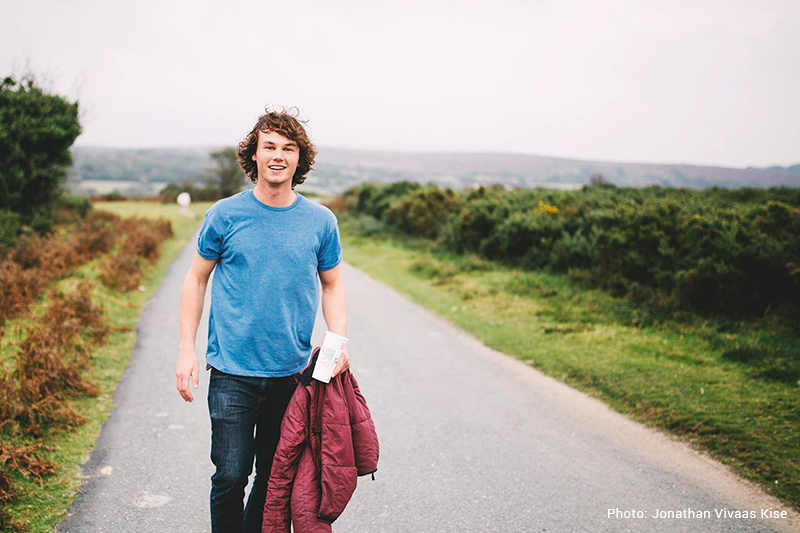
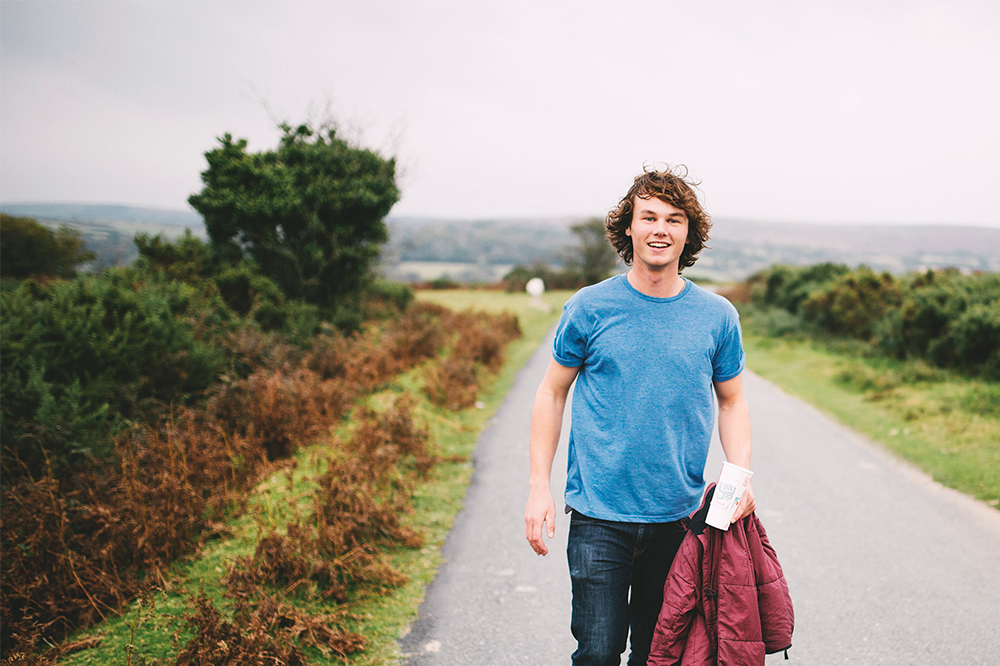
about update and photo credit

diff --git a/_site/styles.css b/_site/styles.css
@@ -1,1 +1,1 @@
-.left{float:left}.right{float:right}.smallCaps{font-size:0.8rem;letter-spacing:.06rem}*{-webkit-box-sizing:border-box;-moz-box-sizing:border-box;box-sizing:border-box}html,body{margin:0;padding:0}html{font-family:-apple-system,BlinkMacSystemFont,"Segoe UI","Roboto","Oxygen","Ubuntu","Cantarell","Fira Sans","Droid Sans","Helvetica Neue",sans-serif;font-size:17px;line-height:1.5;height:100%}@media (min-width: 38em){html{font-size:18px}}body{color:#222;background-color:#fff;-webkit-text-size-adjust:100%;-ms-text-size-adjust:100%}iframe{display:block}a{color:#778282;text-decoration:none}a:hover,a:focus{color:black}a strong{color:inherit}.active a:hover,.active:hover{text-decoration:none;cursor:default}img{display:block;max-width:100%;margin:1rem auto}img.heroImg{margin:0}iframe{margin:1.8rem auto}table{margin-bottom:1rem;width:100%;font-size:85%;border:1px solid #e5e5e5;border-collapse:collapse}td,th{padding:.25rem .5rem;border:1px solid #e5e5e5}th{text-align:left}tbody tr:nth-child(odd) td,tbody tr:nth-child(odd) th{background-color:#f9f9f9}h1,h2,h3,h4,h5,h6{font-family:0.8rem;margin-bottom:1.8rem;font-weight:700;line-height:1.25;color:#222;text-rendering:optimizeLegibility}h1{font-size:2rem;text-align:center;margin:4rem auto;color:black}.homepage h1{text-align:left;margin:0 0 1.8rem}h2{margin-top:4.8rem;font-size:1.5rem}h3{margin-top:3.6rem;font-size:1.2rem;font-weight:600;margin-bottom:0.9rem}h4,h5,h6{margin-top:1rem;font-size:1rem}p{margin-top:0;margin-bottom:1.8rem;font-family:"freight-text-pro"}@media (min-width: 30em){p{font-size:1.2rem}}strong{color:#303030}h5{font-family:"freight-text-pro";font-style:italic;font-weight:400;max-width:28rem;text-align:center;margin:0 auto 1.8rem}ul,ol,dl{margin-top:0;margin-bottom:1.8rem;font-family:"freight-text-pro"}ul li,ol li,dl li{margin-bottom:0.9rem}@media (min-width: 30em){ul,ol,dl{font-size:1.2rem}}dt{font-weight:bold}dd{margin-bottom:.5rem}hr{position:relative;margin:1.5rem 0;border:0;border-top:1px solid #eee;border-bottom:1px solid #fff}abbr{font-size:85%;font-weight:bold;color:#555;text-transform:uppercase}abbr[title]{cursor:help;border-bottom:1px dotted #e5e5e5}blockquote{padding:.5rem 1rem;margin:.8rem 0;color:#7a7a7a;border-left:.25rem solid #e5e5e5}blockquote p:last-child{margin-bottom:0}@media (min-width: 30em){blockquote{padding-right:5rem;padding-left:1.25rem}}sup{font-size:0.5rem}a[href^="#fn:"],a[href^="#fnref:"]{display:inline-block;margin-left:.1rem;font-weight:bold}.footnotes{margin-top:2rem;font-size:85%}.lead{font-size:1.25rem;font-weight:300}.highlight .hll{background-color:#ffc}.highlight .c{color:#999}.highlight .err{color:#a00;background-color:#faa}.highlight .k{color:#069}.highlight .o{color:#555}.highlight .cm{color:#09f;font-style:italic}.highlight .cp{color:#099}.highlight .c1{color:#999}.highlight .cs{color:#999}.highlight .gd{background-color:#fcc;border:1px solid #c00}.highlight .ge{font-style:italic}.highlight .gr{color:red}.highlight .gh{color:#030}.highlight .gi{background-color:#cfc;border:1px solid #0c0}.highlight .go{color:#aaa}.highlight .gp{color:#009}.highlight .gu{color:#030}.highlight .gt{color:#9c6}.highlight .kc{color:#069}.highlight .kd{color:#069}.highlight .kn{color:#069}.highlight .kp{color:#069}.highlight .kr{color:#069}.highlight .kt{color:#078}.highlight .m{color:#f60}.highlight .s{color:#d44950}.highlight .na{color:#4f9fcf}.highlight .nb{color:#366}.highlight .nc{color:#0a8}.highlight .no{color:#360}.highlight .nd{color:#99f}.highlight .ni{color:#999}.highlight .ne{color:#c00}.highlight .nf{color:#c0f}.highlight .nl{color:#99f}.highlight .nn{color:#0cf}.highlight .nt{color:#2f6f9f}.highlight .nv{color:#033}.highlight .ow{color:#000}.highlight .w{color:#bbb}.highlight .mf{color:#f60}.highlight .mh{color:#f60}.highlight .mi{color:#f60}.highlight .mo{color:#f60}.highlight .sb{color:#c30}.highlight .sc{color:#c30}.highlight .sd{color:#c30;font-style:italic}.highlight .s2{color:#c30}.highlight .se{color:#c30}.highlight .sh{color:#c30}.highlight .si{color:#a00}.highlight .sx{color:#c30}.highlight .sr{color:#3aa}.highlight .s1{color:#c30}.highlight .ss{color:#fc3}.highlight .bp{color:#366}.highlight .vc{color:#033}.highlight .vg{color:#033}.highlight .vi{color:#033}.highlight .il{color:#f60}.css .o,.css .o+.nt,.css .nt+.nt{color:#999}code,pre{font-family:Menlo, Monaco, "Courier New", monospace}code{padding:.25em .5em;font-size:85%;color:#bf616a;background-color:#f9f9f9;border-radius:3px}pre{margin-top:0;margin-bottom:1rem}pre code{padding:0;font-size:100%;color:inherit;background-color:transparent}.highlight{padding:1rem;margin-bottom:1rem;font-size:.8rem;line-height:1.4;background-color:#f9f9f9;border-radius:.25rem}.highlight pre{margin-bottom:0;overflow-x:auto}.highlight .lineno{display:inline-block;padding-right:.75rem;padding-left:.25rem;color:#999;-webkit-user-select:none;-moz-user-select:none;user-select:none}.container{max-width:38rem;padding-left:1rem;padding-right:1rem;margin-left:auto;margin-right:auto}section{margin:4rem 0}.homepage section{margin:6rem 0}@media (min-width: 38rem){.homepage section{margin:10rem 0}}footer{padding:1.2rem 1.2rem 2.4rem;vertical-align:middle}@media (max-width: 30em){footer small .left,footer small .right{float:none;width:100%;text-align:center;padding:.325rem}}.page{padding:4rem 0}.page p,.page h1,.page h2,.page h3,.page h4,.page ul,.page img,.page iframe{width:100%;max-width:38rem;margin-left:auto;margin-right:auto;padding-left:1rem;padding-right:1rem}.page img{margin:2.7rem auto .9rem;width:auto;padding:0;max-width:34rem;max-height:38rem}.page h1{max-width:54rem}.page ul,.page ol,.page dl{padding-left:2.7rem}@media (min-width: 30em){.page .wide{margin:3.6rem auto;max-width:54rem}.page .full{max-width:100%;max-height:100%;margin:0.9rem auto;padding-left:0;padding-right:0}}.projectData{margin:-4rem auto 3rem;padding:1rem;text-align:center;display:block}ul.homepageProjects{padding:0;margin:3rem 0}ul.homepageProjects li{width:100%;vertical-align:top;max-width:17rem;display:inline-block;font:0.8rem -apple-system,BlinkMacSystemFont,"Segoe UI","Roboto","Oxygen","Ubuntu","Cantarell","Fira Sans","Droid Sans","Helvetica Neue",sans-serif;margin-bottom:4rem;line-height:1.4}ul.homepageProjects li:nth-child(2n){margin-right:0}ul.homepageProjects li img{margin:0;width:100%;position:absolute;-webkit-transition:0.1s ease;transition:0.1s ease;top:0;left:0}ul.homepageProjects li a{color:black}ul.homepageProjects li a:hover{color:#778282}ul.homepageProjects li a:hover img{-webkit-transform:scale(1.02);transform:scale(1.02)}@media (min-width: 30em){ul.homepageProjects li{margin-right:1.2rem}}.zoomContainer{position:relative;overflow:hidden;margin:0 0 .8rem 0;width:inherit;height:9.5rem}.masthead{margin-bottom:0;padding:1.2rem 1.2rem 0}.masthead-title{margin-top:0;margin-bottom:0;display:inline-block;font-family:-apple-system,BlinkMacSystemFont,"Segoe UI","Roboto","Oxygen","Ubuntu","Cantarell","Fira Sans","Droid Sans","Helvetica Neue",sans-serif;font-weight:600;font-size:1rem}@media (min-width: 38rem){.masthead-title{font-size:1.2rem}}.masthead-title a{color:black}.masthead-title a:hover{color:#778282}.masthead-title small{font-size:75%;font-weight:400;color:#c0c0c0;letter-spacing:0}.homepage .masthead-title{display:none}.masthead nav{font-size:0.8rem;float:right;margin-top:-1rem}.masthead nav a{list-style-type:none;display:inline-block;color:#111;padding:1.2rem 0.8rem}.masthead nav a.active,.masthead nav a.active:hover{color:#aaa}.masthead nav a:hover{color:#778282}.masthead nav a:last-child{padding-right:.4rem}.projectWrapper{font-size:0.8rem;position:relative}.projectWrapper button{position:absolute;z-index:10;top:2.4rem;vertical-align:middle;width:2.4rem;height:3.6rem;background:url("/images/svg/arrow.svg") no-repeat 0.9rem,rgba(255,255,255,0.95);border:none;border-left:1px solid black;cursor:pointer}.projectWrapper button.scrollRight{right:0}.projectWrapper button.scrollLeft{left:0;transform:rotate(180deg)}.projectHeader{padding:1.2rem 1.2rem 0;display:block;letter-spacing:.06rem;text-rendering:Optimizelegibility}.projectNav{font-family:-apple-system,BlinkMacSystemFont,"Segoe UI","Roboto","Oxygen","Ubuntu","Cantarell","Fira Sans","Droid Sans","Helvetica Neue",sans-serif;font-size:0;white-space:nowrap;overflow-x:scroll;-webkit-overflow-scrolling:touch;-ms-overflow-style:-ms-autohiding-scrollbar;background:transparent;margin:0;padding:0 0 1rem}.projectNav li{font-size:0.8rem;display:inline-block;white-space:initial;width:10rem;height:4rem;padding:0.6rem 1.2rem;vertical-align:middle;line-height:1.25}.projectNav li:last-child{border-right:0}.projectNav li.active a,.projectNav li.active a:hover{color:#aaa}.projectNav li a{color:black}.projectNav li a:hover{color:#778282}.page,.post{margin-bottom:4em}.page-title,.post-title{margin-top:0}.post-date{display:block;margin-top:-.5rem;margin-bottom:1rem;color:#9a9a9a}.related{padding-top:2rem;padding-bottom:2rem;border-top:1px solid #eee}.related-posts{padding-left:0;list-style:none}.related-posts h3{margin-top:0}.related-posts li small{font-size:75%;color:#999}.related-posts li a:hover{color:#268bd2;text-decoration:none}.related-posts li a:hover small{color:inherit}.pagination{overflow:hidden;margin:0 -1.5rem 1rem;font-family:"PT Sans", Helvetica, Arial, sans-serif;color:#ccc;text-align:center}.pagination-item{display:block;padding:1rem;border:solid #eee;border-width:1px 0}.pagination-item:first-child{margin-bottom:-1px}a.pagination-item:hover{background-color:#f5f5f5}@media (min-width: 30em){.pagination{margin:3rem 0}.pagination-item{float:left;width:50%;border-width:1px}.pagination-item:first-child{margin-bottom:0;border-top-left-radius:4px;border-bottom-left-radius:4px}.pagination-item:last-child{margin-left:-1px;border-top-right-radius:4px;border-bottom-right-radius:4px}}.message{margin-bottom:1rem;padding:1rem;color:#717171;background-color:#f9f9f9}
+.left{float:left}.right{float:right}.smallCaps{font-size:0.8rem;letter-spacing:.06rem}*{-webkit-box-sizing:border-box;-moz-box-sizing:border-box;box-sizing:border-box}html,body{margin:0;padding:0}html{font-family:-apple-system,BlinkMacSystemFont,"Segoe UI","Roboto","Oxygen","Ubuntu","Cantarell","Fira Sans","Droid Sans","Helvetica Neue",sans-serif;font-size:17px;line-height:1.5;height:100%}@media (min-width: 38em){html{font-size:18px}}body{color:#222;background-color:#fff;-webkit-text-size-adjust:100%;-ms-text-size-adjust:100%}iframe{display:block}a{color:#778282;text-decoration:none}a:hover,a:focus{color:black}a strong{color:inherit}.active a:hover,.active:hover{text-decoration:none;cursor:default}img{display:block;max-width:100%;margin:1rem auto}img.heroImg{margin:0}iframe{margin:1.8rem auto}table{margin-bottom:1rem;width:100%;font-size:85%;border:1px solid #e5e5e5;border-collapse:collapse}td,th{padding:.25rem .5rem;border:1px solid #e5e5e5}th{text-align:left}tbody tr:nth-child(odd) td,tbody tr:nth-child(odd) th{background-color:#f9f9f9}h1,h2,h3,h4,h5,h6{font-family:0.8rem;margin-bottom:1.8rem;font-weight:700;line-height:1.25;color:#222;text-rendering:optimizeLegibility}h1 small,h2 small,h3 small,h4 small,h5 small,h6 small{font-weight:400}h1{font-size:2rem;text-align:center;margin:4rem auto;color:black}.homepage h1{text-align:left;margin:0 0 1.8rem}h2{margin-top:4.8rem;font-size:1.5rem}h3{margin-top:3.6rem;font-size:1.2rem;font-weight:600;margin-bottom:0.9rem}h4,h5,h6{margin-top:1rem;font-size:1rem}p{margin-top:0;margin-bottom:1.8rem;font-family:"freight-text-pro"}@media (min-width: 30em){p{font-size:1.2rem}}strong{color:#303030}h5{font-family:"freight-text-pro";font-style:italic;font-weight:400;max-width:28rem;text-align:center;margin:0 auto 1.8rem}ul,ol,dl{margin-top:0;margin-bottom:1.8rem;font-family:"freight-text-pro"}ul li,ol li,dl li{margin-bottom:0.9rem}@media (min-width: 30em){ul,ol,dl{font-size:1.2rem}}dt{font-weight:bold}dd{margin-bottom:.5rem}hr{position:relative;margin:1.5rem 0;border:0;border-top:1px solid #eee;border-bottom:1px solid #fff}abbr{font-size:85%;font-weight:bold;color:#555;text-transform:uppercase}abbr[title]{cursor:help;border-bottom:1px dotted #e5e5e5}blockquote{padding:.5rem 1rem;margin:.8rem 0;color:#7a7a7a;border-left:.25rem solid #e5e5e5}blockquote p:last-child{margin-bottom:0}@media (min-width: 30em){blockquote{padding-right:5rem;padding-left:1.25rem}}sup{font-size:0.5rem}a[href^="#fn:"],a[href^="#fnref:"]{display:inline-block;margin-left:.1rem;font-weight:bold}.footnotes{margin-top:2rem;font-size:85%}.lead{font-size:1.25rem;font-weight:300}.highlight .hll{background-color:#ffc}.highlight .c{color:#999}.highlight .err{color:#a00;background-color:#faa}.highlight .k{color:#069}.highlight .o{color:#555}.highlight .cm{color:#09f;font-style:italic}.highlight .cp{color:#099}.highlight .c1{color:#999}.highlight .cs{color:#999}.highlight .gd{background-color:#fcc;border:1px solid #c00}.highlight .ge{font-style:italic}.highlight .gr{color:red}.highlight .gh{color:#030}.highlight .gi{background-color:#cfc;border:1px solid #0c0}.highlight .go{color:#aaa}.highlight .gp{color:#009}.highlight .gu{color:#030}.highlight .gt{color:#9c6}.highlight .kc{color:#069}.highlight .kd{color:#069}.highlight .kn{color:#069}.highlight .kp{color:#069}.highlight .kr{color:#069}.highlight .kt{color:#078}.highlight .m{color:#f60}.highlight .s{color:#d44950}.highlight .na{color:#4f9fcf}.highlight .nb{color:#366}.highlight .nc{color:#0a8}.highlight .no{color:#360}.highlight .nd{color:#99f}.highlight .ni{color:#999}.highlight .ne{color:#c00}.highlight .nf{color:#c0f}.highlight .nl{color:#99f}.highlight .nn{color:#0cf}.highlight .nt{color:#2f6f9f}.highlight .nv{color:#033}.highlight .ow{color:#000}.highlight .w{color:#bbb}.highlight .mf{color:#f60}.highlight .mh{color:#f60}.highlight .mi{color:#f60}.highlight .mo{color:#f60}.highlight .sb{color:#c30}.highlight .sc{color:#c30}.highlight .sd{color:#c30;font-style:italic}.highlight .s2{color:#c30}.highlight .se{color:#c30}.highlight .sh{color:#c30}.highlight .si{color:#a00}.highlight .sx{color:#c30}.highlight .sr{color:#3aa}.highlight .s1{color:#c30}.highlight .ss{color:#fc3}.highlight .bp{color:#366}.highlight .vc{color:#033}.highlight .vg{color:#033}.highlight .vi{color:#033}.highlight .il{color:#f60}.css .o,.css .o+.nt,.css .nt+.nt{color:#999}code,pre{font-family:Menlo, Monaco, "Courier New", monospace}code{padding:.25em .5em;font-size:85%;color:#bf616a;background-color:#f9f9f9;border-radius:3px}pre{margin-top:0;margin-bottom:1rem}pre code{padding:0;font-size:100%;color:inherit;background-color:transparent}.highlight{padding:1rem;margin-bottom:1rem;font-size:.8rem;line-height:1.4;background-color:#f9f9f9;border-radius:.25rem}.highlight pre{margin-bottom:0;overflow-x:auto}.highlight .lineno{display:inline-block;padding-right:.75rem;padding-left:.25rem;color:#999;-webkit-user-select:none;-moz-user-select:none;user-select:none}.container{max-width:38rem;padding-left:1rem;padding-right:1rem;margin-left:auto;margin-right:auto}section{margin:4rem 0}.homepage section{margin:6rem 0}@media (min-width: 38rem){.homepage section{margin:10rem 0}}footer{padding:1.2rem 1.2rem 2.4rem;vertical-align:middle}@media (max-width: 30em){footer small .left,footer small .right{float:none;width:100%;text-align:center;padding:.325rem}}.page{padding:4rem 0}.page p,.page h1,.page h2,.page h3,.page h4,.page ul,.page img,.page iframe{width:100%;max-width:38rem;margin-left:auto;margin-right:auto;padding-left:1rem;padding-right:1rem}.page img{margin:2.7rem auto .9rem;width:auto;padding:0;max-width:34rem;max-height:38rem}.page h1{max-width:54rem}.page ul,.page ol,.page dl{padding-left:2.7rem}@media (min-width: 30em){.page .wide{margin:3.6rem auto;max-width:54rem}.page .full{max-width:100%;max-height:100%;margin:0.9rem auto;padding-left:0;padding-right:0}}.projectData{margin:-4rem auto 3rem;padding:1rem;text-align:center;display:block}ul.homepageProjects{padding:0;margin:3rem 0}ul.homepageProjects li{width:100%;vertical-align:top;max-width:17rem;display:inline-block;font:0.8rem -apple-system,BlinkMacSystemFont,"Segoe UI","Roboto","Oxygen","Ubuntu","Cantarell","Fira Sans","Droid Sans","Helvetica Neue",sans-serif;margin-bottom:4rem;line-height:1.4}ul.homepageProjects li:nth-child(2n){margin-right:0}ul.homepageProjects li img{margin:0;width:100%;position:absolute;-webkit-transition:0.1s ease;transition:0.1s ease;top:0;left:0}ul.homepageProjects li a{color:black}ul.homepageProjects li a:hover{color:#778282}ul.homepageProjects li a:hover img{-webkit-transform:scale(1.02);transform:scale(1.02)}@media (min-width: 30em){ul.homepageProjects li{margin-right:1.2rem}}.zoomContainer{position:relative;overflow:hidden;margin:0 0 .8rem 0;width:inherit;height:9.5rem}.masthead{margin-bottom:0;padding:1.2rem 1.2rem 0}.masthead-title{margin-top:0;margin-bottom:0;display:inline-block;font-family:-apple-system,BlinkMacSystemFont,"Segoe UI","Roboto","Oxygen","Ubuntu","Cantarell","Fira Sans","Droid Sans","Helvetica Neue",sans-serif;font-weight:600;font-size:1rem}@media (min-width: 38rem){.masthead-title{font-size:1.2rem}}.masthead-title a{color:black}.masthead-title a:hover{color:#778282}.masthead-title small{font-size:75%;font-weight:400;color:#c0c0c0;letter-spacing:0}.homepage .masthead-title{display:none}.masthead nav{font-size:0.8rem;float:right;margin-top:-1rem}.masthead nav a{list-style-type:none;display:inline-block;color:#111;padding:1.2rem 0.8rem}.masthead nav a.active,.masthead nav a.active:hover{color:#aaa}.masthead nav a:hover{color:#778282}.masthead nav a:last-child{padding-right:.4rem}.projectWrapper{font-size:0.8rem;position:relative}.projectWrapper button{position:absolute;z-index:10;top:2.4rem;vertical-align:middle;width:2.4rem;height:3.6rem;background:url("/images/svg/arrow.svg") no-repeat 0.9rem,rgba(255,255,255,0.95);border:none;border-left:1px solid black;cursor:pointer}.projectWrapper button.scrollRight{right:0}.projectWrapper button.scrollLeft{left:0;transform:rotate(180deg)}.projectHeader{padding:1.2rem 1.2rem 0;display:block;letter-spacing:.06rem;text-rendering:Optimizelegibility}.projectNav{font-family:-apple-system,BlinkMacSystemFont,"Segoe UI","Roboto","Oxygen","Ubuntu","Cantarell","Fira Sans","Droid Sans","Helvetica Neue",sans-serif;font-size:0;white-space:nowrap;overflow-x:scroll;-webkit-overflow-scrolling:touch;-ms-overflow-style:-ms-autohiding-scrollbar;background:transparent;margin:0;padding:0 0 1rem}.projectNav li{font-size:0.8rem;display:inline-block;white-space:initial;width:10rem;height:4rem;padding:0.6rem 1.2rem;vertical-align:middle;line-height:1.25}.projectNav li:last-child{border-right:0}.projectNav li.active a,.projectNav li.active a:hover{color:#aaa}.projectNav li a{color:black}.projectNav li a:hover{color:#778282}.page,.post{margin-bottom:4em}.page-title,.post-title{margin-top:0}.post-date{display:block;margin-top:-.5rem;margin-bottom:1rem;color:#9a9a9a}.related{padding-top:2rem;padding-bottom:2rem;border-top:1px solid #eee}.related-posts{padding-left:0;list-style:none}.related-posts h3{margin-top:0}.related-posts li small{font-size:75%;color:#999}.related-posts li a:hover{color:#268bd2;text-decoration:none}.related-posts li a:hover small{color:inherit}.pagination{overflow:hidden;margin:0 -1.5rem 1rem;font-family:"PT Sans", Helvetica, Arial, sans-serif;color:#ccc;text-align:center}.pagination-item{display:block;padding:1rem;border:solid #eee;border-width:1px 0}.pagination-item:first-child{margin-bottom:-1px}a.pagination-item:hover{background-color:#f5f5f5}@media (min-width: 30em){.pagination{margin:3rem 0}.pagination-item{float:left;width:50%;border-width:1px}.pagination-item:first-child{margin-bottom:0;border-top-left-radius:4px;border-bottom-left-radius:4px}.pagination-item:last-child{margin-left:-1px;border-top-right-radius:4px;border-bottom-right-radius:4px}}.message{margin-bottom:1rem;padding:1rem;color:#717171;background-color:#f9f9f9}

diff --git a/_site/about.html b/_site/about.html
@@ -180,9 +180,9 @@
       <main>
         <article class="page">
   <h1 class="page-title"></h1>
-  <p><img src="/images/sam1.jpg" alt="Sam Stephenson" /></p>
+  <p><img src="/images/sam1.jpg" alt="Photo: Jonathan Vivaas Kise" /></p>
 
-<p><strong>I’m Sam Stephenson</strong>, a freelance designer and student at Falmouth University. I study graphic design, but have long been fond of the the web and digital products. I have a passion for good, ideas-driven design; crafting experiences with empathy and respect for human behaviour. Affecting lives for the better.</p>
+<p><strong>I’m Sam Stephenson</strong>, a digital designer and student at Falmouth University. I study graphic design, but have long been fond of the the web and digital products. I have a passion for good, ideas-driven design; crafting experiences with empathy and respect for human behaviour. Affecting lives for the better.</p>
 
 <p>I’ll be graduating in June this year, and am seeking oppurtunities with start-ups and digital agencies in London or San Francisco.</p>
 
@@ -193,13 +193,13 @@
 <h2 id="experience">Experience</h2>
 <p><a href="/resume.pdf">See my résumé</a> for a more comprehensive list.</p>
 
-<h4 id="placement-at-ashahttpashawebsitecouk-a-branding-agency-augustseptember-2015">Placement at <a href="http://ashawebsite.co.uk/">ASHA</a>, a branding agency (August–September 2015)</h4>
-<p>Actively contributed to naming, brand strategy and logo development in the lead up to first-stage client presentation for ChangeGrowLive. Designed a custom icon set for use in environmental graphics and branding material. Work placement extended at request of ASHA.</p>
+<h4 id="asha-smallaugustseptember-2015small">ASHA <small>August–September 2015</small></h4>
+<p><a href="http://ashawebsite.co.uk/">ASHA</a> are an award-winning graphic design agency based in Cheltenham, in the West of England. During a three-week placement, I actively contributed to naming, brand strategy and logo development in the lead up to the first-stage client presentation for <a href="http://ashawebsite.co.uk/news/asha-launches-rebrand-of-recovery-charity/"><em>ChangeGrowLive</em></a>. I designed a custom icon set for use in environmental graphics and branding material. Placement was extended at the request of ASHA.</p>
 
-<h4 id="ogilvychangehttpogilvychangecom-summer-school-august-2015"><a href="http://ogilvychange.com/">OgilvyChange</a> Summer School (August 2015)</h4>
+<h4 id="ogilvychange-smallaugust-2015small">OgilvyChange <small>August 2015</small></h4>
 <p><a href="http://ogilvychange.com/">OgilvyChange</a> are a specialist behaviour-change division of the <a href="https://ogilvy.co.uk/">Ogilvy &amp; Mather</a> advertising group. I was the only designer to secure a place on their summer school. With a small team of psychology graduates, I presented ideas and behavioural ‘nudges’ to encourage the recycling of clothes in the home and in-store . I designed the presentation which was forwarded to a national charity for potential implementation.</p>
 
-<h4 id="freelance-web--graphic-designer-2009present">Freelance web &amp; graphic designer (2009–present)</h4>
+<h4 id="freelance-designer-small2009presentsmall">Freelance designer <small>2009–present</small></h4>
 <ul>
   <li>
     <p>Designed a consistent visual identity for the <a href="https://www.facebook.com/SasHurleyClassic/?fref=ts">SAS Hurley Classic</a>, one of the UK’s largest whitewater kayaking events. Created the logo, posters, programmes, banners, Facebook ads, web graphics, trophies and t-shirts for this international event.</p>
@@ -232,6 +232,8 @@
 <p>Headings and UI text are rendered in the system font. Body copy in <a href="https://typekit.com/fonts/freight-text-pro">Freight Text Pro</a>, served via Typekit. <a href="http://basehold.it/">Basehold.it</a> took the pain out of establishing some vertical rythmn.</p>
 
 <p>Thanks also to all in <a href="http://spec.fm/">Spec.fm’s</a> <a href="https://inspect.wake.io/">Wake team</a>, whose feedback was invaluable in getting the site’s design to this point.</p>
+
+<p>The photo atop this page was taken by <a href="http://www.jonathanvk.com/">Jonathan Vivaas Kise</a></p>
 
 </article>
 
@@ -287,7 +289,7 @@
       </div>
 
       <div class="right">
-        &copy; <time datetime="2016-02-12T01:06:51+00:00">2016</time> Sam Stephenson. <a href="/about.html#about-this-site" title="About this site">About this site</a>
+        &copy; <time datetime="2016-02-16T20:57:52+00:00">2016</time> Sam Stephenson. <a href="/about.html#about-this-site" title="About this site">About this site</a>
       </div>
 
     </small>

diff --git a/_site/work/Bitcoin.html b/_site/work/Bitcoin.html
@@ -308,7 +308,7 @@ Bitcoin transactions are person to person – it’s just you, and the one recei
       </div>
 
       <div class="right">
-        &copy; <time datetime="2016-02-12T01:06:51+00:00">2016</time> Sam Stephenson. <a href="/about.html#about-this-site" title="About this site">About this site</a>
+        &copy; <time datetime="2016-02-16T20:57:52+00:00">2016</time> Sam Stephenson. <a href="/about.html#about-this-site" title="About this site">About this site</a>
       </div>
 
     </small>

diff --git a/_site/work/Past-and-Present.html b/_site/work/Past-and-Present.html
@@ -266,7 +266,7 @@ The publication should embody the Institute’s message, ‘philosophy for every
       </div>
 
       <div class="right">
-        &copy; <time datetime="2016-02-12T01:06:51+00:00">2016</time> Sam Stephenson. <a href="/about.html#about-this-site" title="About this site">About this site</a>
+        &copy; <time datetime="2016-02-16T20:57:52+00:00">2016</time> Sam Stephenson. <a href="/about.html#about-this-site" title="About this site">About this site</a>
       </div>
 
     </small>

diff --git a/_site/404.html b/_site/404.html
@@ -235,7 +235,7 @@
       </div>
 
       <div class="right">
-        &copy; <time datetime="2016-02-12T01:06:51+00:00">2016</time> Sam Stephenson. <a href="/about.html#about-this-site" title="About this site">About this site</a>
+        &copy; <time datetime="2016-02-16T20:57:52+00:00">2016</time> Sam Stephenson. <a href="/about.html#about-this-site" title="About this site">About this site</a>
       </div>
 
     </small>

diff --git a/_site/index.html b/_site/index.html
@@ -284,7 +284,7 @@
       </div>
 
       <div class="right">
-        &copy; <time datetime="2016-02-12T01:06:51+00:00">2016</time> Sam Stephenson. <a href="/about.html#about-this-site" title="About this site">About this site</a>
+        &copy; <time datetime="2016-02-16T20:57:52+00:00">2016</time> Sam Stephenson. <a href="/about.html#about-this-site" title="About this site">About this site</a>
       </div>
 
     </small>

diff --git a/_site/page2/index.html b/_site/page2/index.html
@@ -284,7 +284,7 @@
       </div>
 
       <div class="right">
-        &copy; <time datetime="2016-02-12T01:06:51+00:00">2016</time> Sam Stephenson. <a href="/about.html#about-this-site" title="About this site">About this site</a>
+        &copy; <time datetime="2016-02-16T20:57:52+00:00">2016</time> Sam Stephenson. <a href="/about.html#about-this-site" title="About this site">About this site</a>
       </div>
 
     </small>

diff --git a/_site/page3/index.html b/_site/page3/index.html
@@ -284,7 +284,7 @@
       </div>
 
       <div class="right">
-        &copy; <time datetime="2016-02-12T01:06:51+00:00">2016</time> Sam Stephenson. <a href="/about.html#about-this-site" title="About this site">About this site</a>
+        &copy; <time datetime="2016-02-16T20:57:52+00:00">2016</time> Sam Stephenson. <a href="/about.html#about-this-site" title="About this site">About this site</a>
       </div>
 
     </small>

diff --git a/_site/page4/index.html b/_site/page4/index.html
@@ -284,7 +284,7 @@
       </div>
 
       <div class="right">
-        &copy; <time datetime="2016-02-12T01:06:51+00:00">2016</time> Sam Stephenson. <a href="/about.html#about-this-site" title="About this site">About this site</a>
+        &copy; <time datetime="2016-02-16T20:57:52+00:00">2016</time> Sam Stephenson. <a href="/about.html#about-this-site" title="About this site">About this site</a>
       </div>
 
     </small>

diff --git a/_site/page5/index.html b/_site/page5/index.html
@@ -284,7 +284,7 @@
       </div>
 
       <div class="right">
-        &copy; <time datetime="2016-02-12T01:06:51+00:00">2016</time> Sam Stephenson. <a href="/about.html#about-this-site" title="About this site">About this site</a>
+        &copy; <time datetime="2016-02-16T20:57:52+00:00">2016</time> Sam Stephenson. <a href="/about.html#about-this-site" title="About this site">About this site</a>
       </div>
 
     </small>

diff --git a/_site/work/Amber-Business.html b/_site/work/Amber-Business.html
@@ -243,7 +243,7 @@
       </div>
 
       <div class="right">
-        &copy; <time datetime="2016-02-12T01:06:51+00:00">2016</time> Sam Stephenson. <a href="/about.html#about-this-site" title="About this site">About this site</a>
+        &copy; <time datetime="2016-02-16T20:57:52+00:00">2016</time> Sam Stephenson. <a href="/about.html#about-this-site" title="About this site">About this site</a>
       </div>
 
     </small>

diff --git a/_site/work/Jack-Beck.html b/_site/work/Jack-Beck.html
@@ -243,7 +243,7 @@
       </div>
 
       <div class="right">
-        &copy; <time datetime="2016-02-12T01:06:51+00:00">2016</time> Sam Stephenson. <a href="/about.html#about-this-site" title="About this site">About this site</a>
+        &copy; <time datetime="2016-02-16T20:57:52+00:00">2016</time> Sam Stephenson. <a href="/about.html#about-this-site" title="About this site">About this site</a>
       </div>
 
     </small>
